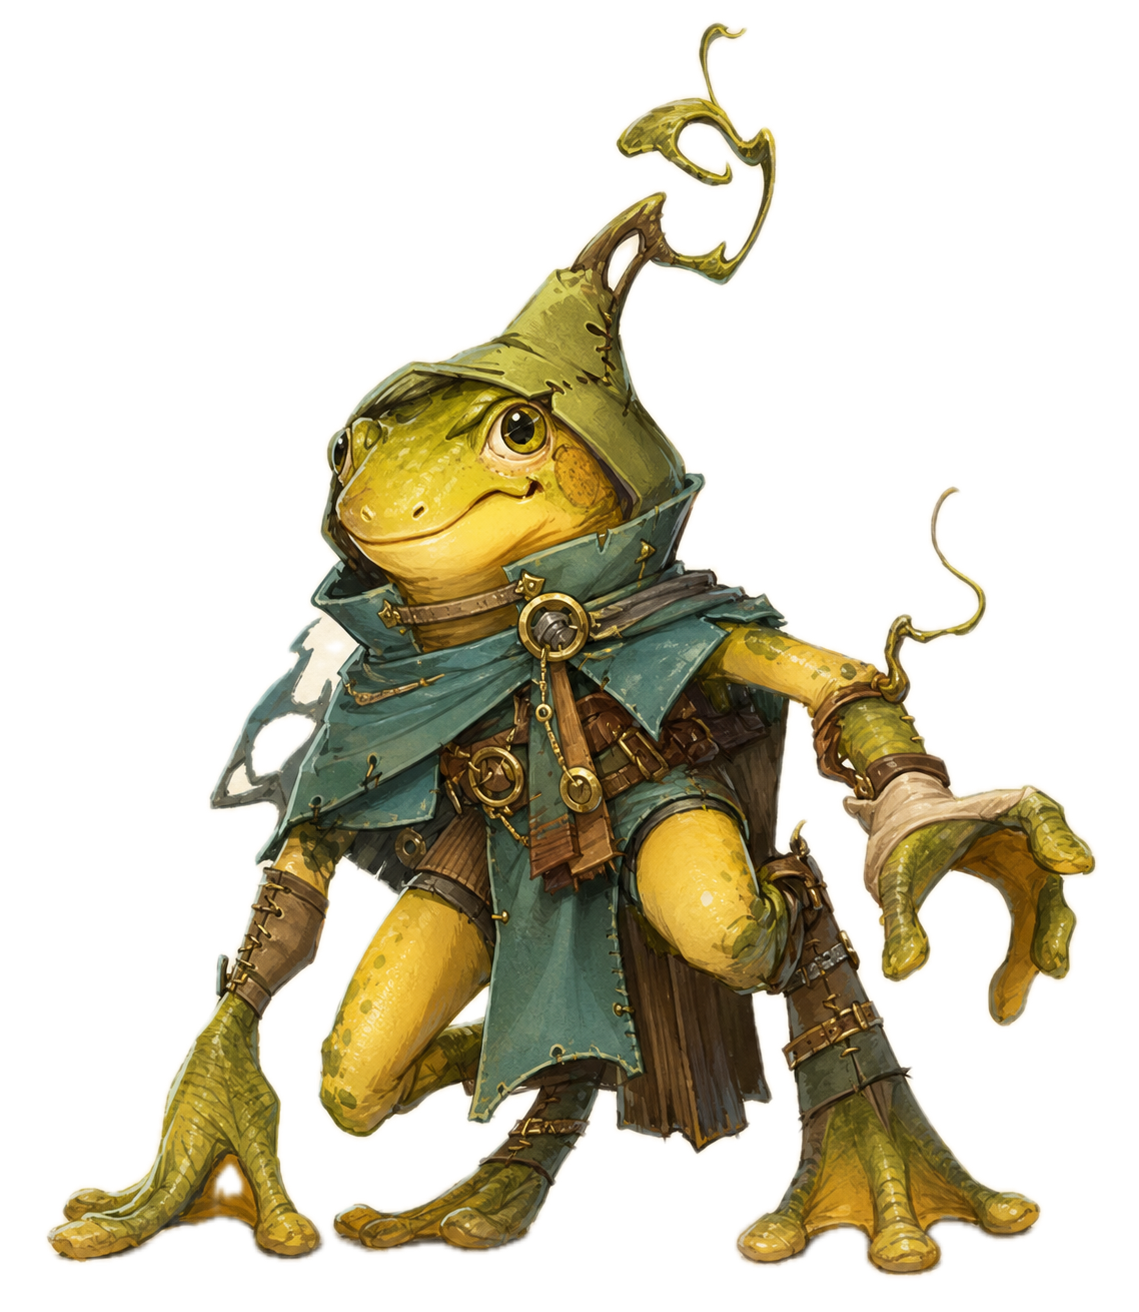
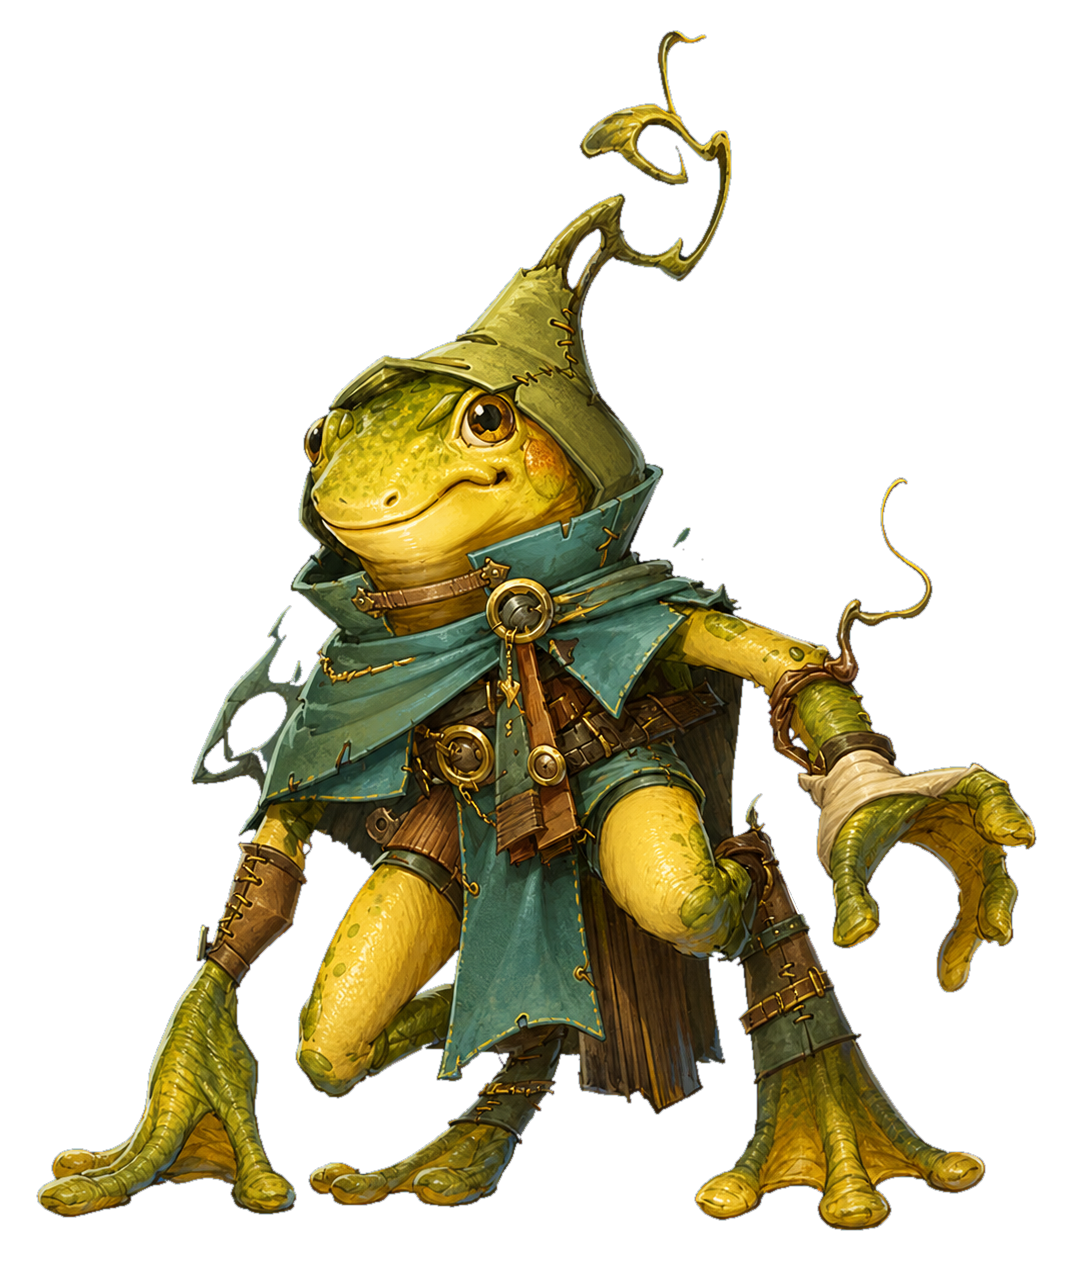
Replace Goldspire character art with transparent assets

Changed region(s): [[0.0308, 0.0, 0.9842, 0.985], [0.7996, 0.3694, 0.8611, 0.4309]]

diff --git a/events/goldspire/index.html b/events/goldspire/index.html
@@ -179,7 +179,7 @@
         </div>
         <div class="courier-grid" aria-label="Premade character options">
           <a class="courier-card" href="assets/player-pdfs/03-garrick-reed-pages-10-13.pdf" target="_blank" rel="noopener noreferrer" aria-describedby="new-tab-note">
-            <img src="assets/characters/cropped/garrick-reed-portrait.png" alt="Garrick Reed, a highborne human warrior premade character." width="990" height="1421" loading="lazy" decoding="async" />
+            <img src="assets/characters/cropped/garrick-reed-portrait.png" alt="Garrick Reed, a highborne human warrior premade character." width="914" height="1327" loading="lazy" decoding="async" />
             <div>
               <h3>Garrick Reed</h3>
               <p class="courier-meta">he/him | Highborne Human Warrior</p>
@@ -189,7 +189,7 @@
             </div>
           </a>
           <a class="courier-card" href="assets/player-pdfs/04-khari-nix-pages-14-17.pdf" target="_blank" rel="noopener noreferrer" aria-describedby="new-tab-note">
-            <img src="assets/characters/cropped/khari-nix-portrait.png" alt="Khari Nix, a ridgeborne giant guardian premade character." width="1023" height="1514" loading="lazy" decoding="async" />
+            <img src="assets/characters/cropped/khari-nix-portrait.png" alt="Khari Nix, a ridgeborne giant guardian premade character." width="1023" height="1503" loading="lazy" decoding="async" />
             <div>
               <h3>Khari Nix</h3>
               <p class="courier-meta">she/her | Ridgeborne Giant Guardian</p>
@@ -199,7 +199,7 @@
             </div>
           </a>
           <a class="courier-card" href="assets/player-pdfs/05-varian-soto-pages-18-21.pdf" target="_blank" rel="noopener noreferrer" aria-describedby="new-tab-note">
-            <img src="assets/characters/cropped/varian-soto-portrait.png" alt="Varian Soto, a wildborne katari ranger premade character." width="1141" height="1268" loading="lazy" decoding="async" />
+            <img src="assets/characters/cropped/varian-soto-portrait.png" alt="Varian Soto, a wildborne katari ranger premade character." width="1044" height="1370" loading="lazy" decoding="async" />
             <div>
               <h3>Varian Soto</h3>
               <p class="courier-meta">they/them | Wildborne Katari Ranger</p>
@@ -209,7 +209,7 @@
             </div>
           </a>
           <a class="courier-card" href="assets/player-pdfs/01-marlowe-fairwind-pages-02-05.pdf" target="_blank" rel="noopener noreferrer" aria-describedby="new-tab-note">
-            <img src="assets/characters/cropped/marlowe-fairwind-portrait.png" alt="Marlowe Fairwind, a loreborne elf sorcerer premade character." width="989" height="1395" loading="lazy" decoding="async" />
+            <img src="assets/characters/cropped/marlowe-fairwind-portrait.png" alt="Marlowe Fairwind, a loreborne elf sorcerer premade character." width="1000" height="1410" loading="lazy" decoding="async" />
             <div>
               <h3>Marlowe Fairwind</h3>
               <p class="courier-meta">she/her | Loreborne Elf Sorcerer</p>
@@ -219,7 +219,7 @@
             </div>
           </a>
           <a class="courier-card" href="assets/player-pdfs/02-barnacle-pages-06-09.pdf" target="_blank" rel="noopener noreferrer" aria-describedby="new-tab-note">
-            <img src="assets/characters/cropped/barnacle-portrait.png" alt="Barnacle, an underborne ribbet rogue premade character." width="1139" height="1312" loading="lazy" decoding="async" />
+            <img src="assets/characters/cropped/barnacle-portrait.png" alt="Barnacle, an underborne ribbet rogue premade character." width="1073" height="1267" loading="lazy" decoding="async" />
             <div>
               <h3>Barnacle</h3>
               <p class="courier-meta">he/him | Underborne Ribbet Rogue</p>

diff --git a/events/goldspire/docs/source-asset-manifest.md b/events/goldspire/docs/source-asset-manifest.md
@@ -18,22 +18,22 @@ Source root:
 - `event-visual-asset-pack/assets/hero/goldspire-footer-sablewood-wide-crop.png` -> `events/goldspire/assets/hero/forest-road-wide-crop.png`
 - `event-visual-asset-pack/assets/hero/SZ-00-standby-welcome.png` -> `events/goldspire/assets/hero/SZ-00-standby-welcome.png`
 
-### Background-Removed Character Art
+### Transparent Character Art
 
-- `visual-assets/pc_portrait_assets/generated/barnacle Background Removed.png` -> `events/goldspire/assets/characters/barnacle-background-removed.png`
-- `visual-assets/pc_portrait_assets/generated/garrick-reed Background Removed.png` -> `events/goldspire/assets/characters/garrick-reed-background-removed.png`
-- `visual-assets/pc_portrait_assets/generated/khari-nix Background Removed.png` -> `events/goldspire/assets/characters/khari-nix-background-removed.png`
-- `visual-assets/pc_portrait_assets/generated/marlowe-fairwind Background Removed.png` -> `events/goldspire/assets/characters/marlowe-fairwind-background-removed.png`
-- `visual-assets/pc_portrait_assets/generated/varian-soto Background Removed.png` -> `events/goldspire/assets/characters/varian-soto-background-removed.png`
-- `visual-assets/pc_portrait_assets/generated/party-reference Background Removed.png` -> `events/goldspire/assets/characters/courier-crew-background-removed.png`
+- `visual-assets/pc_portrait_assets/transparent/barnacle.png` -> `events/goldspire/assets/characters/barnacle-background-removed.png`
+- `visual-assets/pc_portrait_assets/transparent/garrick-reed.png` -> `events/goldspire/assets/characters/garrick-reed-background-removed.png`
+- `visual-assets/pc_portrait_assets/transparent/khari-nix.png` -> `events/goldspire/assets/characters/khari-nix-background-removed.png`
+- `visual-assets/pc_portrait_assets/transparent/marlowe-fairwind.png` -> `events/goldspire/assets/characters/marlowe-fairwind-background-removed.png`
+- `visual-assets/pc_portrait_assets/transparent/varian-soto.png` -> `events/goldspire/assets/characters/varian-soto-background-removed.png`
+- `visual-assets/pc_portrait_assets/transparent/party-reference.png` -> `events/goldspire/assets/characters/courier-crew-background-removed.png`
 
-The hero uses the prepared background-removed crew reference as a single controlled party image. This replaced the earlier CSS-composed individual portrait tableau after rendered QA showed that the custom assembly created visual collision risk.
+The hero uses the new chroma-key-derived transparent crew reference as a single controlled party image. This replaced the earlier background-removed crew reference after QA found visible matte artifacts in character gaps.
 
-The five individual card portraits also have page-local cropped derivatives in `events/goldspire/assets/characters/cropped/`. These were generated from the background-removed source files to remove excess transparent canvas and prevent blank-looking character cards.
+The five individual card portraits also have page-local cropped derivatives in `events/goldspire/assets/characters/cropped/`. These were regenerated from the transparent source files to remove excess canvas and prevent blank-looking character cards.
 
 ### Supplemental PC Art
 
-Copied from `event-visual-asset-pack/assets/pcs/` into `events/goldspire/assets/pcs/` for future page/social variants. The current public page uses the background-removed crew reference in the hero and cropped individual portraits in the character cards.
+Copied from `event-visual-asset-pack/assets/pcs/` into `events/goldspire/assets/pcs/` for future page/social variants. The current public page uses the transparent crew reference in the hero and cropped transparent individual portraits in the character cards.
 
 ### Player Character PDFs
 

diff --git a/events/goldspire/docs/qa-results.md b/events/goldspire/docs/qa-results.md
@@ -103,3 +103,22 @@ status: local-qa-passed
 - Published `/gm/events/goldspire/` writing pass at commit `c097a86`.
 - Live landing page returned `200` and served the updated HTML with the new `Learn Daggerheart in one night`, `No tabletop or Daggerheart experience needed`, optional acting-voice, magical-cargo premise, and `Learn Daggerheart in one evening` copy.
 - Live source check found the old repeated delivery-object hooks absent.
+
+## 2026-06-17 Transparent Character Asset Replacement QA
+
+### Visual Anchor Map
+
+| ID | Source / viewport | Region | Visual fact / issue | Intended action | Verification |
+| --- | --- | --- | --- | --- | --- |
+| P1 | Playwright desktop `1366x900` | Hero party panel | Party art now uses the transparent `party-reference.png` source instead of the earlier background-removed file with matte artifacts. | Keep the single controlled party image in the hero. | Passed screenshot review; no broken image; natural size `1536x1024`; no horizontal overflow. |
+| P2 | Playwright mobile `390x900` | Mobile hero party strip | Party strip remains visible and centered between the hero copy and logistics chips. | Preserve mobile first-fold clarity while showing the improved crew art. | Passed screenshot review; no collision with facts or CTA; no horizontal overflow. |
+| C1 | Playwright desktop `1366x900` and mobile `390x900` | `.courier-grid` | Five courier cards now use regenerated cropped derivatives from the new transparent individual PC sources. | Replace the old card portraits without changing the card/link structure. | Passed screenshot review and metrics: all five images complete with updated natural dimensions and no broken images. |
+| M1 | Local source manifest | Character asset source list | Manifest now points to `visual-assets/pc_portrait_assets/transparent/` for party and PC art. | Keep source status accurate and remove reliance on the artifact-prone background-removal outputs. | Passed source review. |
+
+### Local Verification
+
+- Local server: `http://127.0.0.1:8765/events/goldspire/`.
+- Desktop `1366x900` and mobile `390x900`: no horizontal overflow and `Claim a Seat` remains visible.
+- Replaced 11 page-local character image files: 6 full transparent sources and 5 regenerated cropped card portraits.
+- Updated character-card `width`/`height` attributes to match the regenerated crop dimensions.
+- Evidence: `/tmp/goldspire-new-transparent-assets-qa-2026-06-17/summary.json`, `desktop-hero.png`, `mobile-hero.png`, `desktop-courier-grid.png`, `mobile-courier-grid.png`, and `source-replacement-contact-sheet.jpg`.
